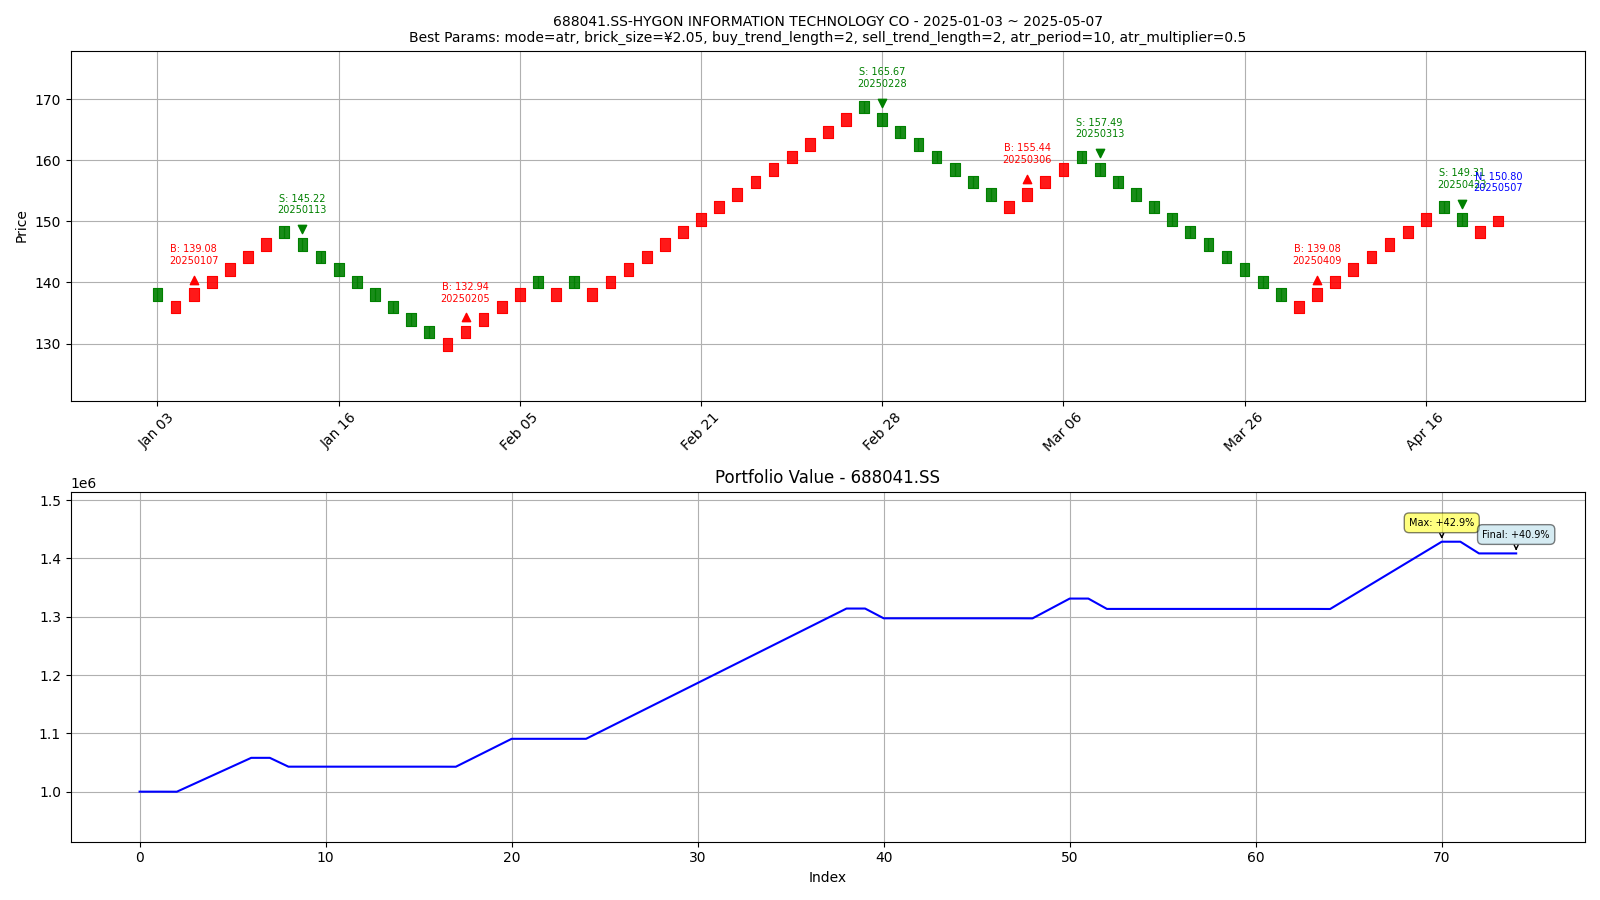
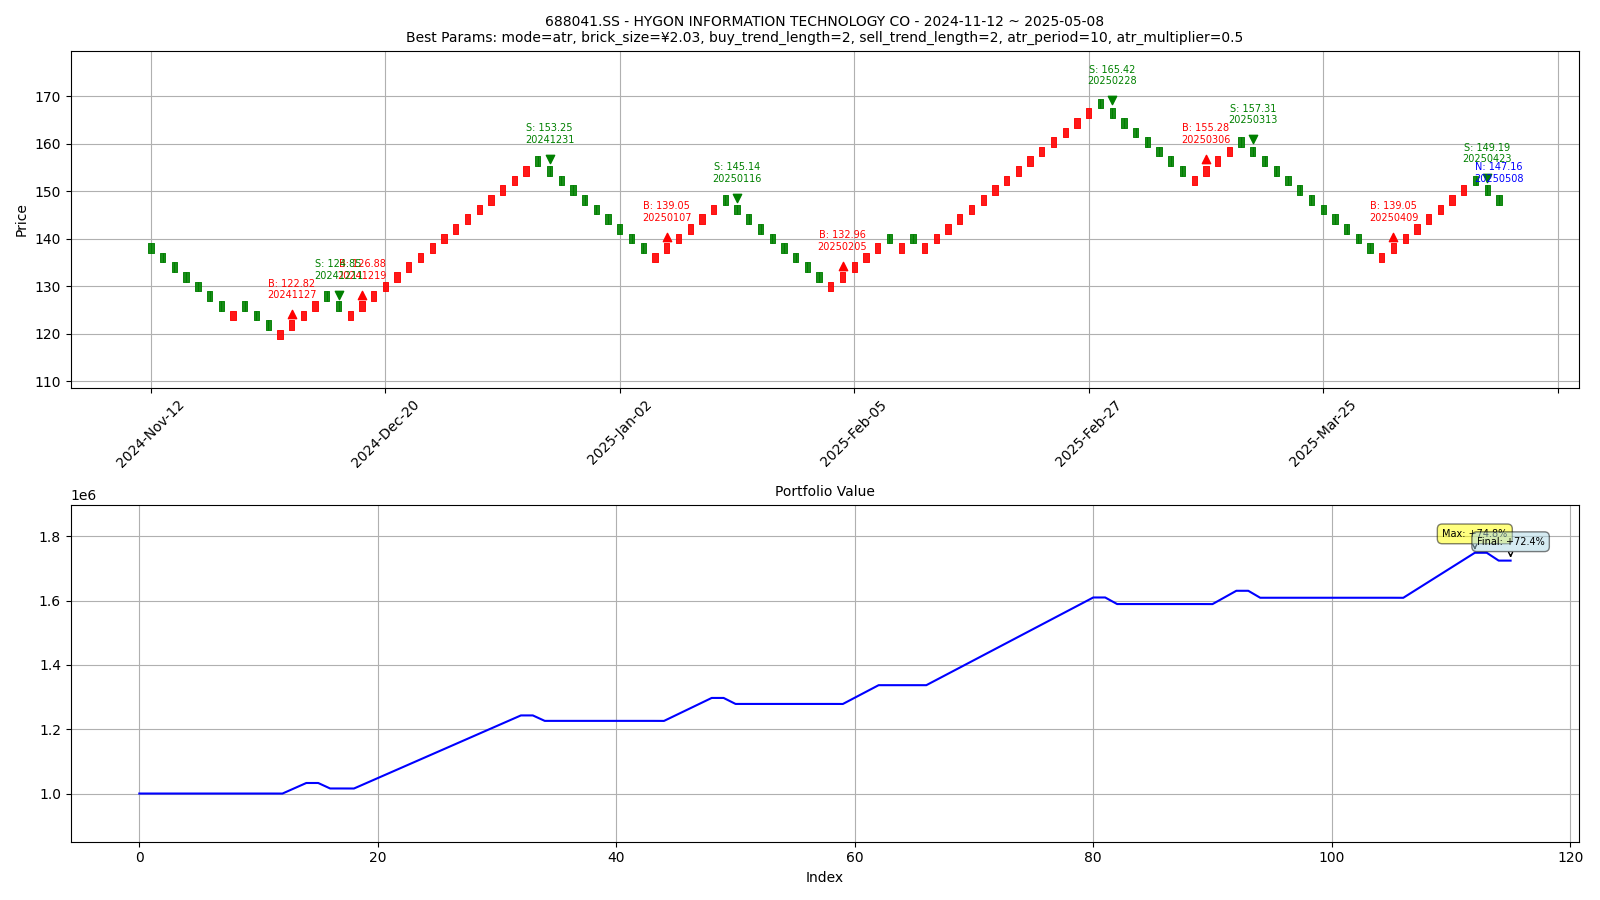
优化默认参数，简化使用。

diff --git a/src/main.py b/src/main.py
@@ -1,12 +1,13 @@
 import argparse
+from datetime import datetime, timedelta
 from renko_backtester import RenkoBacktester
 
 def parse_arguments():
     """解析命令行参数"""
     parser = argparse.ArgumentParser(description='Renko策略回测程序')
     parser.add_argument('--symbol', required=True, help='股票代码，例如：688041.SS')
-    parser.add_argument('--start_date', required=True, help='开始日期，格式：YYYY-MM-DD')
-    parser.add_argument('--end_date', required=True, help='结束日期，格式：YYYY-MM-DD')
+    parser.add_argument('--start_date', default=None, help='开始日期，格式：YYYY-MM-DD')
+    parser.add_argument('--end_date', default=None, help='结束日期，格式：YYYY-MM-DD')
     parser.add_argument('--renko_mode', choices=['atr', 'daily'], default='atr', 
                        help='Renko生成模式：atr（基于ATR）或daily（基于日线），默认atr')
     parser.add_argument('--atr_period', type=int, default=10, help='ATR周期（仅当renko_mode=atr时有效）')
@@ -24,6 +25,11 @@ def parse_arguments():
 def main():
     """主函数"""
     args = parse_arguments()
+    if args.start_date is None:
+        args.start_date = (datetime.now() - timedelta(days=180)).strftime('%Y-%m-%d')
+    if args.end_date is None:
+        args.end_date = datetime.now().strftime('%Y-%m-%d')
+        
     backtester = RenkoBacktester(args)
     backtester.run_backtest()
 

diff --git a/README.md b/README.md
@@ -38,9 +38,9 @@ python src/main.py --symbol 688041.SS --start_date 2023-01-01 --end_date 2023-12
 ```
 
 3. 参数说明：
-- `--symbol`: 股票代码（必需）
-- `--start_date`: 开始日期（必需）
-- `--end_date`: 结束日期（必需）
+- `--symbol`: 股票代码（必需），注意：上证 .SS 后缀，深证 .SZ 后缀，港股 .HK 后缀
+- `--start_date`: 开始日期（可选，默认取过去180天）
+- `--end_date`: 结束日期（可选，默认取今天日期）
 - `--renko_mode`: Renko生成模式（可选，默认atr）
 - `--atr_period`: ATR周期（可选，默认10）
 - `--atr_multiplier`: ATR乘数（可选，默认0.5）
@@ -53,24 +53,34 @@ python src/main.py --symbol 688041.SS --start_date 2023-01-01 --end_date 2023-12
 
 ## 示例
 
-1. 标准回测：
+0. 自动参数优化回测（推荐）：
 ```bash
-python src/main.py --symbol 688041.SS --start_date 2023-01-01 --end_date 2023-12-31 --renko_mode atr --atr_period 14 --atr_multiplier 1.0 --buy_trend_length 3 --sell_trend_length 3
+python src/main.py --symbol 688041.SS --optimize
 ```
 
-2. 参数优化回测：
+1. 默认回测（自动取过去180天，默认周期和趋势）：
 ```bash
-python src/main.py --symbol 688041.SS --start_date 2023-01-01 --end_date 2023-12-31 --optimize --max_iterations 500
+python src/main.py --symbol 688041.SS
 ```
 
-3. 批处理模式：
+2. 指定周期、趋势标准回测：
+```bash
+python src/main.py --symbol 688041.SS --start_date 2025-01-01 --end_date 2025-05-01 --renko_mode atr --atr_period 5 --atr_multiplier 0.5 --buy_trend_length 2 --sell_trend_length 2
+```
+
+3. 批处理模式，不弹出绘图窗口，仅保存到results目录：
 ```bash
 python src/main.py --symbol 688041.SS --start_date 2023-01-01 --end_date 2023-12-31 --batch
 ```
 
+4. 批处理脚本，自行修改 batch_test.sh 内的股票列表
+```bash
+./batch_test.sh
+```
+
 ## 输出说明
 
-- 回测结果将保存在 `data` 目录下
+- 回测结果将保存在 `results` 目录下
 - 图片文件名格式：`{symbol}_{start_date}_{end_date}.png`
 - 控制台输出包括：
   - 数据获取信息
